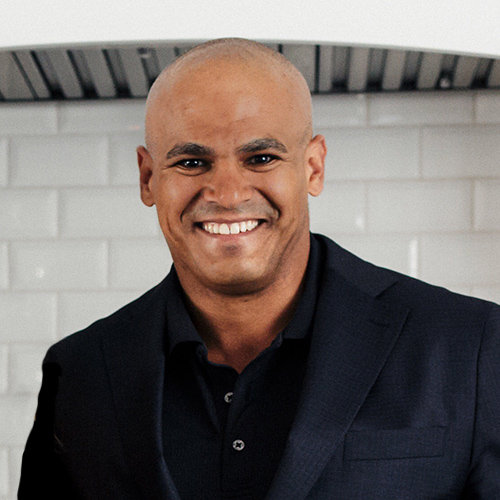
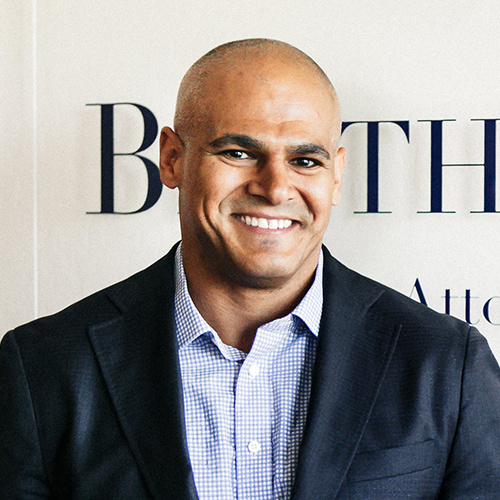
Add ali, update robert photo, add child crisis, add 2 to services,

diff --git a/clients/index.html b/clients/index.html
@@ -9,15 +9,13 @@ meta-description: You can expect the same excellent service we've provided to so
 
 {% include testimonial.html layout="photobg" slug="usnational" company="U.S. National Insurance" name="Steve Klumb" url="http://www.usnational.com/" testimonial="<strong>I had the privilege of working with Robert Reder and the Blythe Grace team during a sensitive severance negotiation with my previous employer.</strong> I was extremely impressed with Robert’s knowledge surrounding employment contract law and his ability to patiently walk me through each of my options. Robert’s staff was also a pleasure to work with and I found that any questions, concerns, or correspondences were promptly responded to. Blythe Grace has my complete confidence and I highly recommend their services." %}
 
-{% include testimonial.html layout="plain" slug="abrconsult" company="ABR Consulting, LLC" name="Andy Bhakta" testimonial="<strong>It has been a positive experience working with Robert Reder and his Team,</strong> they have been very helpful, aggressive and responsive working on our case." %}
+{% include testimonial.html slug="bps" company="Business Partner Solutions, Inc." name="Katherine Bluma" url="http://businesspartnersolutions.com/" testimonial="<strong>My company, Business Partner Solutions, shared an office complex with Blythe Grace.</strong> I met the team at Blythe Grace when they offered to assist me with a legal dispute.  Not only did their team do a fantastic job with that matter, but we retained them to handle all of our legal work as a result. I have complete confidence in Blythe Grace, and highly recommend them to any company that needs help with litigation, employment law, or simply wants an outside general counsel to address day-to-day matters." %}
 
 {% include testimonial.html layout="photobg" slug="sipcoffee" company="Sip Coffee and Beer House" name="Travis Radevski" url="http://sipcoffeeandbeerhouse.com/ " testimonial="<strong>Robert and his team are outstanding. They are thorough, dedicated, and most importantly good people. I would recommend them to everyone.</strong>" %}
 
 {% include testimonial.html name="Azhar Began" slug="azharbegan" testimonial="<strong>I hired Blythe Grace to resolve a lawsuit that was filed against me by a former partner.</strong> Robert and his team resolved the matter within a few weeks to my satisfaction. If you have been sued, Blythe Grace is the firm to have on your side." %}
 
 {% include testimonial.html layout="photobg" slug="reveal" company="Reveal Concepts Co." name="Kevin Lange" url="http://revealconceptsco.com/" testimonial="<strong>Robert is an exceptional attorney, and an all-around great person to be around, and to know.</strong> He's honest, ethical, strategic and always looking out for my company's best interest. We are a creative agency with brilliant minds working across the globe, and I feel Robert fits well within our company’s ethos. It's hard to find these types of lawyers." %}
-
-{% include testimonial.html slug="bps" company="Business Partner Solutions, Inc." name="Katherine Bluma" url="http://businesspartnersolutions.com/" testimonial="<strong>My company, Business Partner Solutions, shared an office complex with Blythe Grace.</strong> I met the team at Blythe Grace when they offered to assist me with a legal dispute.  Not only did their team do a fantastic job with that matter, but we retained them to handle all of our legal work as a result. I have complete confidence in Blythe Grace, and highly recommend them to any company that needs help with litigation, employment law, or simply wants an outside general counsel to address day-to-day matters." %}
 
 {% include testimonial.html slug="radcliffe" company="DMD Dentistry" name="Michael J. Radcliffe" url="http://www.docrad.com/" testimonial="<strong>I had the pleasure of working with Blythe Grace for over three years on a very complex lawsuit.</strong> They were always professional and respectful of my time and money that was being spent. Their energy level was strong and they displayed passion for getting the job done right. I would have no problem hiring Blythe Grace again." %}
 
@@ -36,3 +34,4 @@ meta-description: You can expect the same excellent service we've provided to so
 {% include testimonial.html class="slide-bg-image testimonial-bg baum gray-pic" slug="baum" company="Baum Enterprises" name="Ben Boulware" url="http://www.baumbat.com/" testimonial="<strong>We heard about Blythe Grace through our CPA</strong> and they were able to help us with a company purchase. They do fast work and were wonderful to work with. We definitely recommend Blythe Grace." %}
 
 {% include testimonial.html class="testimonial" company="Business Consultant" name="Kathie Julian" testimonial="<strong>I had a great experience that was very different than prior experiences...</strong> I felt that most firms overcharged and under-delivered. Blythe Grace was very upfront with me about what approach they would take and they delivered in every area. I always knew where I stood and was given information for consideration and I was allowed to make the decisions I thought were best for me. We had a very successful outcome in my case.<br><br>I have recommended and will continue to recommend Blythe Grace to whomever I meet that needs a great law firm." %}
+

diff --git a/services/index.html b/services/index.html
@@ -39,7 +39,15 @@ meta-description: Business & civil litigation, mediation, arbitration, employmen
       <li>
         <h2>General Counsel Services</h2>
         <p>Blythe Grace offers the services of an experienced general counsel available to assist your company at any time and in any capacity. Many businesses decide that the cost of in-house legal counsel outweighs the benefit.  Blythe Grace can provide necessary legal advice at a cost that is well-below that of maintaining one or more attorneys on staff. We learn the business models and goals of our clients’ businesses and craft legal solutions that fit into the overall mission of the company.  We can address a particular legal question plaguing a client, or provide a thorough legal review of a company’s entire business, on either a one-time or an on-going basis.  Blythe Grace can also partner with a client’s in-house legal staff to complement their existing expertise.  We offer clients a business-minded, common-sense approach to legal services, with an eye to the clients’ bottom-line.</p>
+      </li>
+      <li>
+        <h2>White Collar Criminal Defense</h2>
+        <p>We can defend a range of charges including embezzlement, fraud, illegal enterprises, money laundering, Ponzi schemes, securities-related charges, tax offenses, and RICO charges.  Our firm has a well-known practice of representing individuals and victims in cases involving assault and battery, computer crimes, forfeiture, firearms misconduct, theft, and vehicular crimes.</p>
+      </li>
+      <li>
+        <h2>Real Estate Transactions and Disputes</h2>
+        <p>Blythe Grace represents developers, investors, homeowners, and contractors.  We find cost-effective solutions and draw upon our expertise to develop and implement strategies that are creative and practical.  If a dispute arises, we handle litigating all phases of real estate matters.  </p>
+      </li>
     </ul>
-
   </div>
 </div>

diff --git a/giving-back/index.html b/giving-back/index.html
@@ -26,6 +26,7 @@ meta-description: Blythe Grace is committed to supporting and improving all of A
       <li><a href="http://homefurgood.org/" target="_blank"><img src="{{ site.baseurl }}/img/logo-homefurgood-color.png" alt="Home Fur Good" /></a></li>
       <li><a href="https://www.onecommunity.co/united-states/scottsdale/lawyers/blythe-grace-pllc" target="_blank"><img src="{{ site.baseurl }}/img/logo-onecomm-color.png" alt="One Community" /></a></li>
       <li><a href="http://www.esperanca.org/" target="_blank"><img src="{{ site.baseurl }}/img/logo-esperanca-color.png" alt="Esperanca" /></a></li>
+      <li><a href="https://childcrisisaz.org/" target="_blank"><img src="{{ site.baseurl }}/img/logo-childcrisis.png" alt="Child Crisis" /></a></li>
       <!--li class="hidden-xs">&nbsp;</li-->
     </ul>
 

diff --git a/_includes/team-list.html b/_includes/team-list.html
@@ -2,6 +2,7 @@
   <div rel="slider-toggle" data-direction="left" class="prev">&laquo;</div>
   <div class="inner">
     {% include team-list-person.html slug="robert" name="Robert S. Reder" title="Managing Partner" %}
+    {% include team-list-person.html slug="ali" name="Ali Nash" title="Of Council" %}
     {% include team-list-person.html slug="debbie" name="Debbie A. Messing" title="Paralegal &amp; Business Manager" %}
     {% include team-list-person.html slug="patti" name="Patti A. Jennings" title="Paralegal &amp; Firm Administrator" %}
     {% include team-list-person.html slug="christine" name="Christine Hackett" title="Legal Secretary" %}
